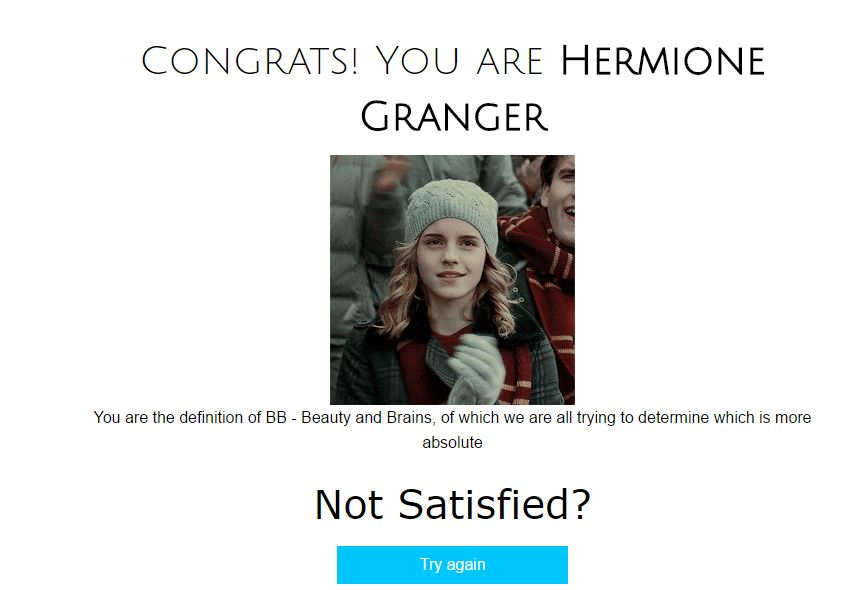
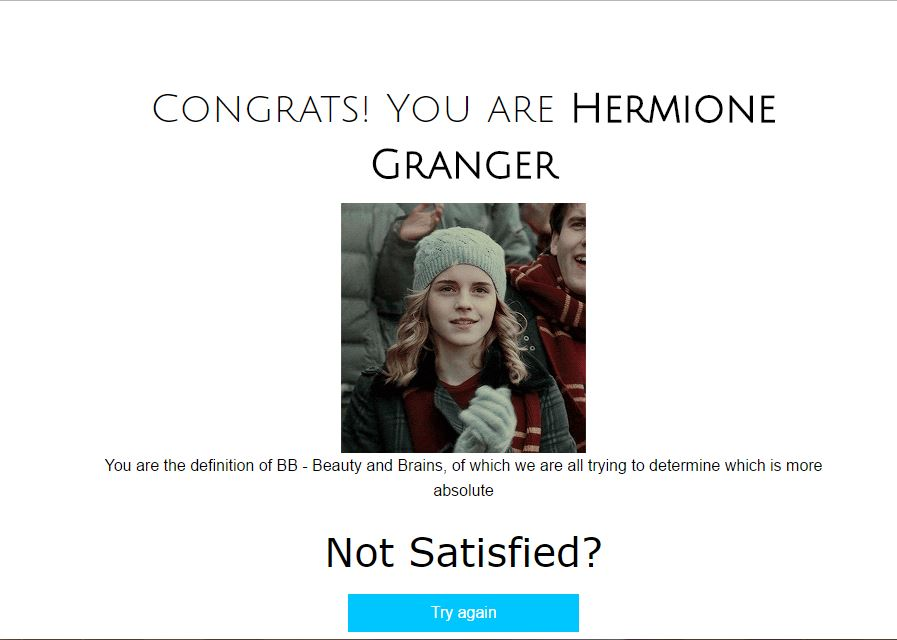
poco modificare

Changed region(s): [[0.0923, 0.061, 0.9538, 0.7932], [0.3692, 0.9153, 0.6769, 1.0], [0.3385, 0.8237, 0.7077, 0.8847]]

diff --git a/css/app.css b/css/app.css
@@ -136,8 +136,8 @@ p{
 
 .fix-img{
   width: auto;
-  height: 250px;
-  max-height: 250px;
+  height: 335px;
+  max-height: 335px;
 }
 /*.carousel-caption {
     position: absolute;
@@ -153,8 +153,8 @@ p{
 .caption-font{
 	padding: 50px;
     position: absolute;
-  	height: 250px;
-  	max-height: 250px;
+  	height: 335px;
+  	max-height: 335px;
 }
 .owl-theme .owl-nav [class*=owl-]{
 	background: #585858;

diff --git a/js/app.js b/js/app.js
@@ -60,7 +60,6 @@ $(document).ready(function(){
 		margin: 10,
 		autoplayTimeout: 4000,
 		autoplayHoverPause: true,
-		mouseDrag: true,
 		touchDrag: true,
 		singleItem: true,
 		responsive:{
